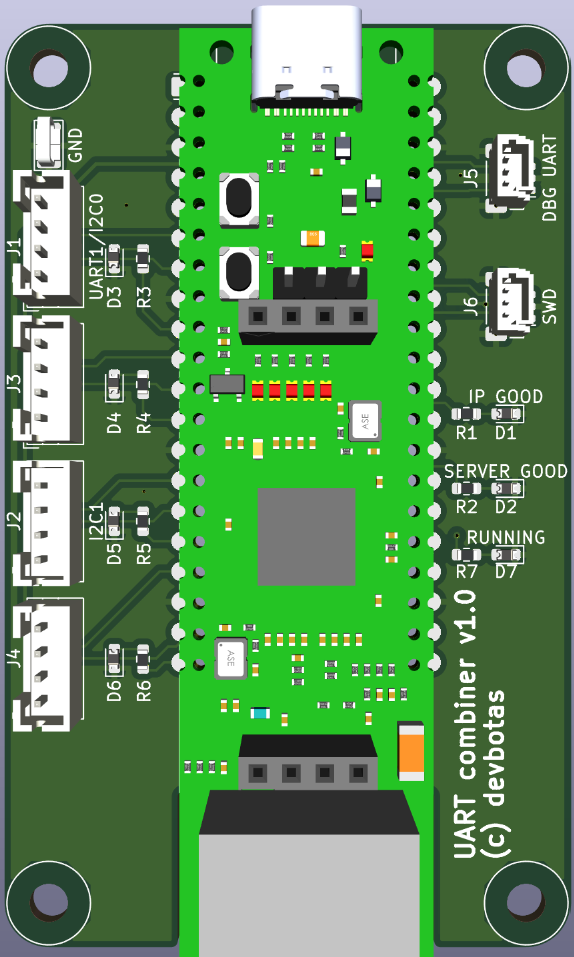
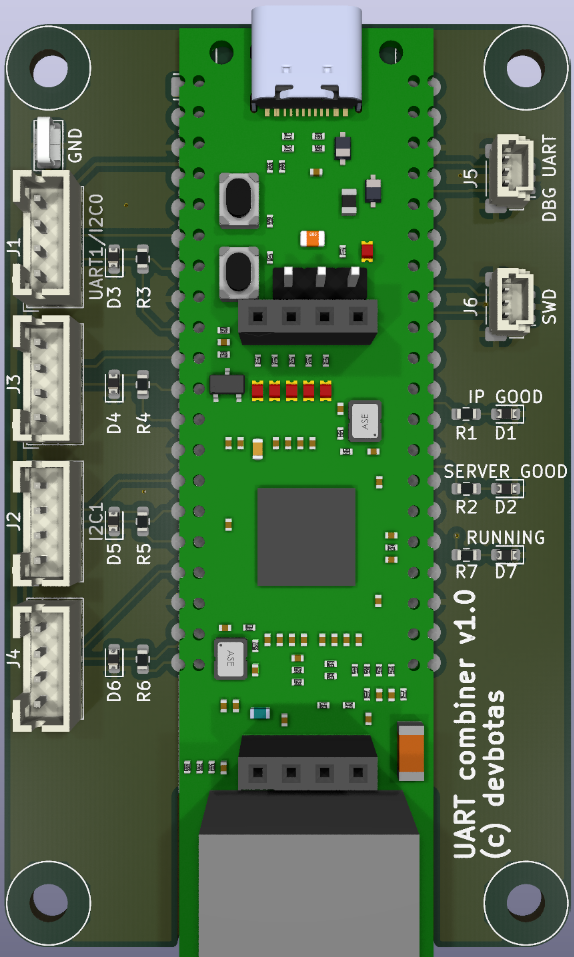
Updating readme.

diff --git a/README.md b/README.md
@@ -20,21 +20,29 @@ Put the analog wires first! So that light switches continue to operate even if s
 
 This is a simple carrier board for WizNET W55RP20 development module. It cannot do much by itself - maybe blink some LEDs. Real functionality (and also power) should come from the JST PH headers.
 
+Can be mounted on M or L size Holey board.
+
+## Voltage converter
+
+![](assets/voltage-converter-0.4.0.png)
+
+Takes 12-24V input (technically, 5-70V, but these voltages may not be supported on the other modules that this one is supposed to power) and creates 3.3V output so Gateway or other low power modules could be connected through the JST XH connector. Additionally, there are multiple JST VH connectors, which act as a power switch to connect multiple power hungry modules, like the Switcher.
+
+Two can be mounted on a single Holey-S board.
+
 ## Switcher
 
-This is a draft for a lights controller.
+![](assets/switcher–0.4.0.png)
 
-![](assets/0.3.0.png)
-
-It has one switchable 12/24V output (should be able to handle 4A). Output can be controlled simultaneously in multiple ways:
+Originally meant to control LED lights, but it can switch anything. It has one switchable 12/24V output (should be able to handle 4A). Output can be controlled simultaneously in multiple ways:
 
 * ON wire: shorting this to GND for 100ms will turn the switch on.
 * OFF wire: shorting this to GND for 100ms will turn the switch off.
 * TGL wire: shorting this to GND for 100ms will toggle the switch.
-* Arduino or I2C directly: software based commands that can turn switch on or off and read the current state.
+* I2C directly: software based commands that can turn switch on or off and read the current state.
 
-The idea here that ON/OFF/TGL signals could be wired to the physical wall switches directly, Arduino being entirely optional. So the switch will operate as a dumb-switch.
+The idea here that ON/OFF/TGL signals could be wired to the physical wall switches directly, any smart features being entirely optional. So the switch will operate as a dumb-switch.
 
 Renesas HVPAK SLG47115 chip serves both as a high-power switch and an input sanitizer. For example, if faulty hardware shorts ON signal to GND permanently, OFF and TGL signals continue to operate normally. 
 
-To make the thing smart (and still retain the "dumb" functionality), Arduino Nano ESP32 should be plugged in. Preferrable path is to install Matter-compatible firmware, thus making this device instantly recognized by any Matter controller. But one can write custom FW is desired.
+Two can be mounted on a single Holey-S board.
